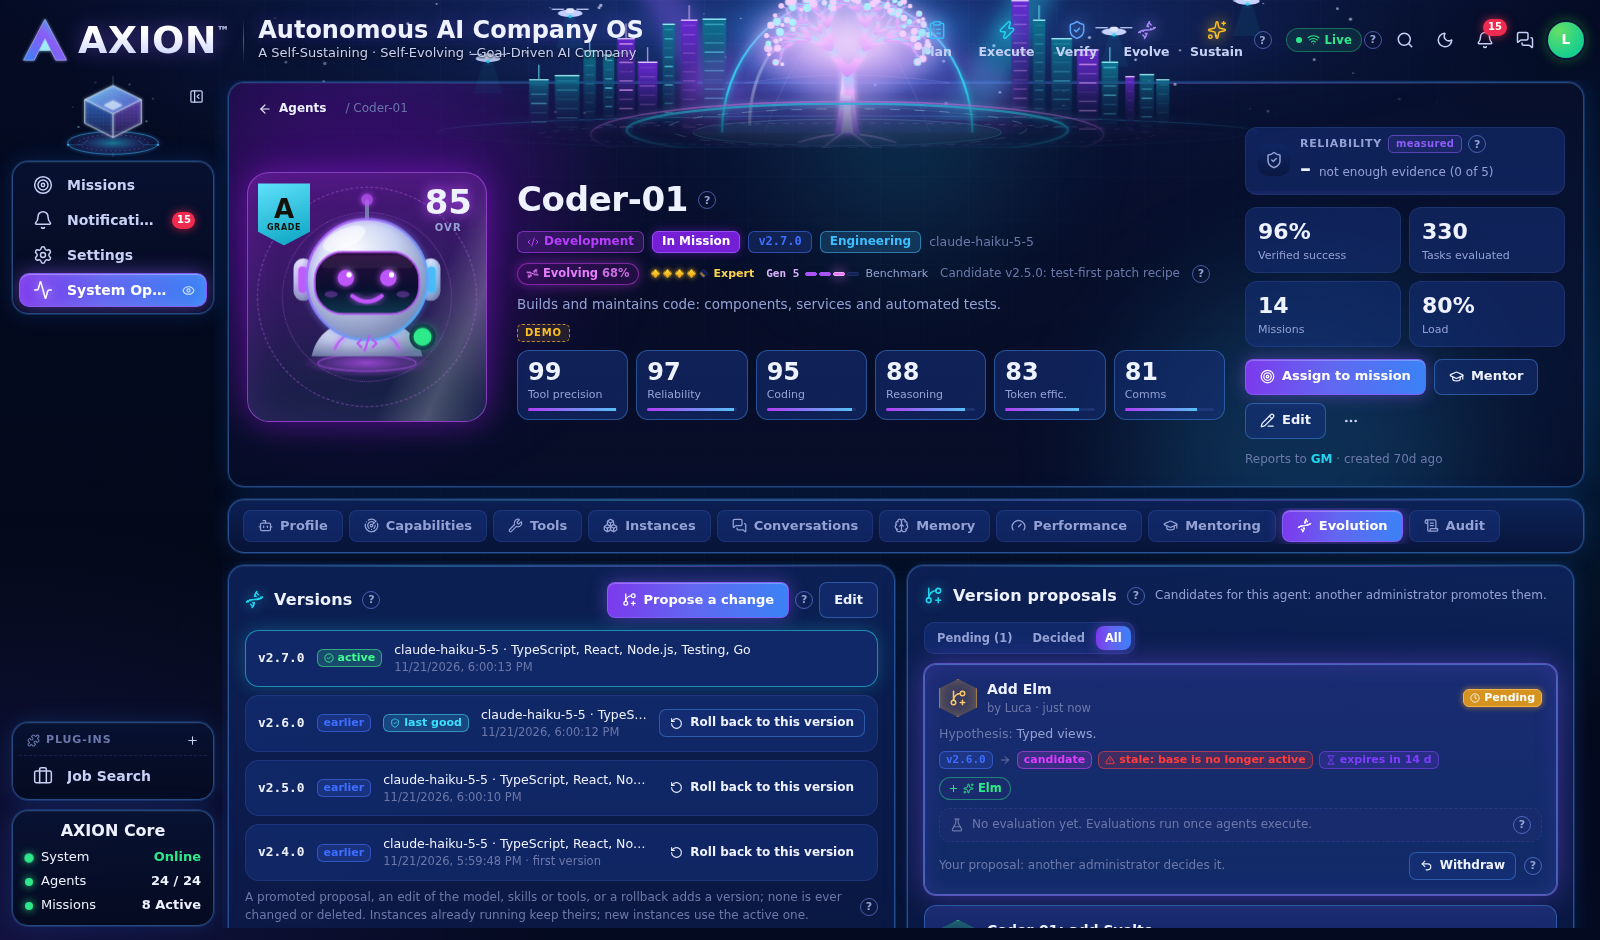
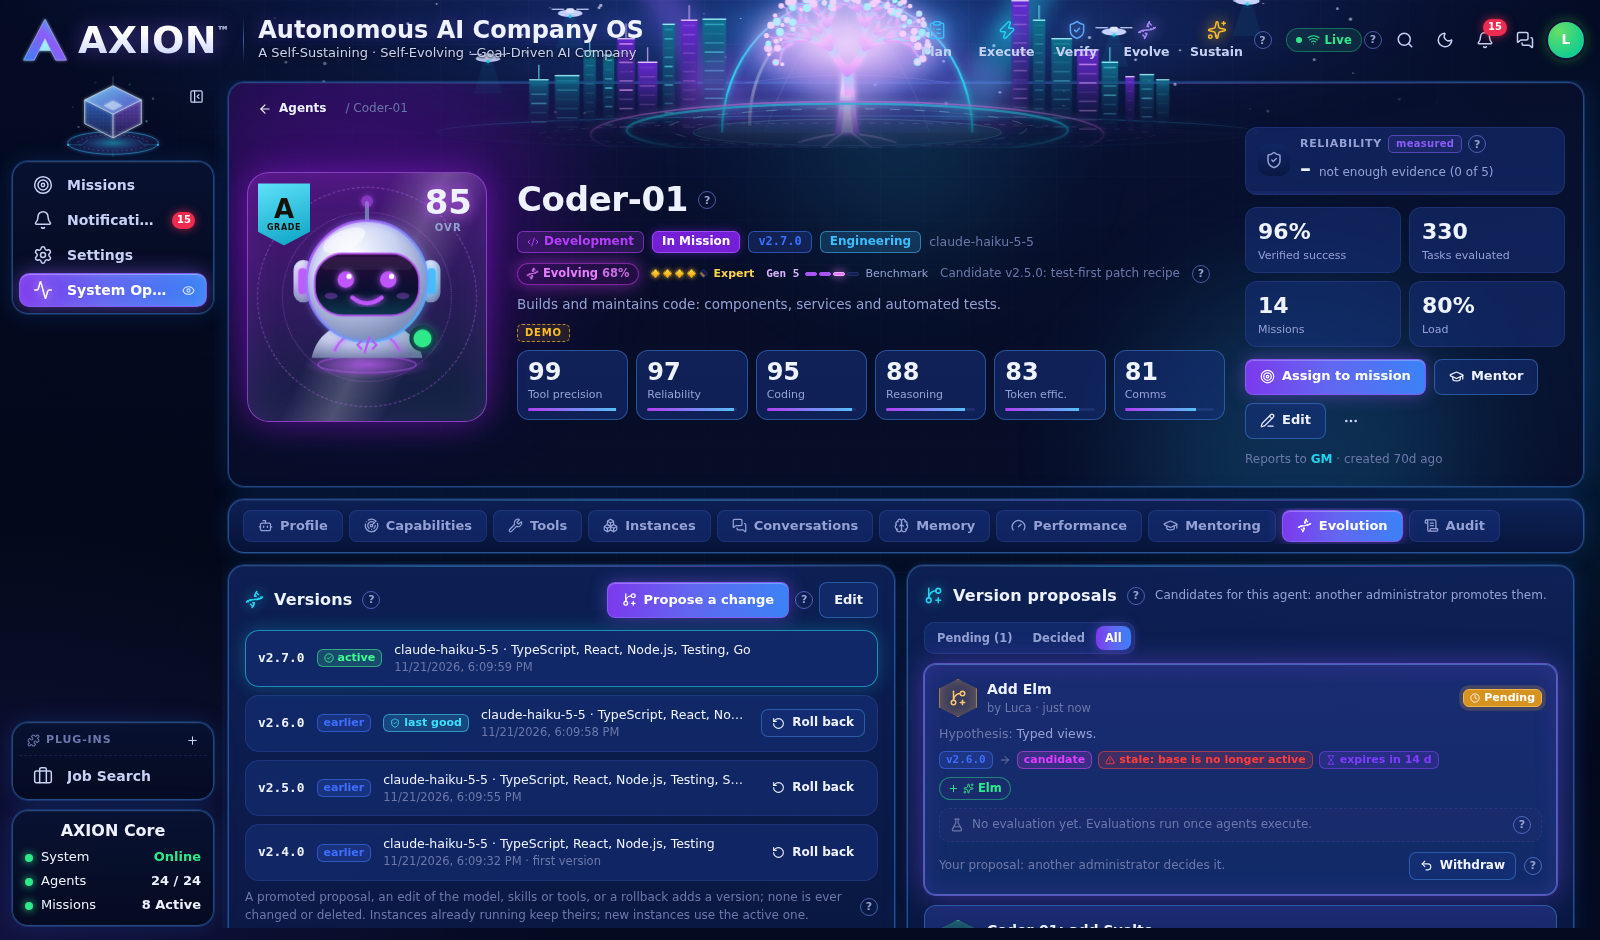
fix(c05): compact Roll back button (accessible name kept) after 1366 screenshots; api-c05 viewport via VW/VH, overflow checks and dialog shots; README rollback line down 14; report update

diff --git a/web/src/pages/AgentProfile.tsx b/web/src/pages/AgentProfile.tsx
@@ -499,9 +499,9 @@ function VersionsPanel({ a }: { a: Agent }) {
                 {good && <Chip hue={190} size="sm" icon={ShieldCheck} title="The version before the active one: one click to roll back to it">last good</Chip>}
                 <div style={{ minWidth: 0, flex: 1 }}>
                   <div className="ellipsis" style={{ fontSize: 12.5 }} title={`${x.model} · skills: ${x.skills.join(', ') || 'none'} · tools: ${x.tools.join(', ') || 'none'}`}>{x.model} · {x.skills.length ? x.skills.join(', ') : 'no skills'}</div>
-                  <div className="dim" style={{ fontSize: 11.5 }}>{new Date(x.createdAt).toLocaleString()}{i === all.length - 1 ? ' · first version' : ''}</div>
+                  <div className="dim ellipsis" style={{ fontSize: 11.5 }}>{new Date(x.createdAt).toLocaleString()}{i === all.length - 1 ? ' · first version' : ''}</div>
                 </div>
-                {canEdit && !active && <button className={cx('btn sm', !good && 'ghost')} style={{ flex: 'none' }} aria-label={`Roll back to this version (${x.label})`} onClick={() => openDialog('agent-rollback', { agentId: a.id, versionId: x.id })}><RotateCcw size={13} />Roll back to this version</button>}
+                {canEdit && !active && <button className={cx('btn sm', !good && 'ghost')} style={{ flex: 'none' }} aria-label={`Roll back to this version (${x.label})`} title={`Roll back to this version (${x.label})`} onClick={() => openDialog('agent-rollback', { agentId: a.id, versionId: x.id })}><RotateCcw size={13} />Roll back</button>}
               </motion.div>
             );
           })}

diff --git a/web/docs/improve/cycles/c05-report.md b/web/docs/improve/cycles/c05-report.md
@@ -51,7 +51,7 @@ sits untracked in the main worktree and was not copied here.
     lists refresh.
   - Promote and rollback also emit `agent.versionCreated` and `agent.updated`.
   - All four new types are in the `EventType` union. Five error codes were added to `ERROR_CODES`.
-- **Docs**: `server/README.md` gains the API, the test count (345) and the rollback line (`migrate -- down 13`).
+- **Docs**: `server/README.md` gains the API, the test count (345) and the rollback line (`migrate -- down 14`). That command is correct both before and after lane 0014 merges.
 
 **Web (api mode; demo mode unchanged)**
 - **Agents › Development** (`ServerDevelopment` in `features/agents/VersionProposals.tsx`):
@@ -65,7 +65,8 @@ sits untracked in the main worktree and was not copied here.
 - **Agent Profile › Evolution** (api mode):
   - The Versions panel marks **active** and **last good**. Last good is the active version's parent, which is the version before
     it, as the brief defines it.
-  - Admins get "Propose a change" (DL-75) and "Roll back to this version" (DL-76, reason required) on every non-active version.
+  - Admins get "Propose a change" (DL-75), and a "Roll back" button (DL-76, reason required) on every non-active version. The
+    button's accessible name and tooltip are "Roll back to this version (vX)". The visible text was shortened after the 1366 check.
   - The old "Candidate Experiment" empty state is replaced by this agent's proposal list.
   - The `active` and `earlier` chips are kept, because `api-stage6.mjs` checks for them.
 - **DL-75 Propose dialog**:
@@ -136,7 +137,7 @@ sits untracked in the main worktree and was not copied here.
 
    ```
    $ cd web && E2E_API_PORT=5392 E2E_WEB_PORT=5393 DOC_SHOT_C05=docs/screenshots/improve-c05-versions-dark.png ./scripts/api-e2e.sh api-c05.mjs api-stage6.mjs api-improve.mjs
-   == api-c05.mjs     29/29 passed, no page errors
+   == api-c05.mjs     29/29 passed, no page errors   (later 31/31 with the overflow checks, at 1600 and 1366)
    == api-stage6.mjs  94/94 passed, no page errors
    == api-improve.mjs 32/33 — FAIL "E2E_DATABASE_URL must point at axion_e2e" (see Concerns: the c01 guard rejects the lane's axion_e2e3)
    ```
@@ -162,7 +163,7 @@ sits untracked in the main worktree and was not copied here.
 | # | Item | Result | Evidence |
 |---|---|---|---|
 | 1 | Server tests in the brief pass; the whole suite stays green | **PASS** | 24 new tests in `test/version-proposals.test.ts`, covering every listed case: promote by another admin (new version, candidate config, parent = base, active); author 403; member 403; stale base 409; tampered sha 409; expired 409; duplicate 409; withdraw by the author only; rollback is a new version with old rows unchanged and the append-only trigger still blocking; rollback to the active version 422; another agent's version 422; running instance keeps its version through promote and rollback; two race tests; other tenant 404; 0015 down/up on a populated schema. Full suite 345/345. |
-| 2 | Browser check in api mode | **PASS** | `api-c05.mjs` 29/29, three browsers: A proposes (+ Svelte) and sees the diff; B promotes from Development; C sees v2.4.0 → v2.5.0 live while `M-126:coder-01` still shows v2.4.0 (server agrees); B rolls back → v2.6.0 has v2.4.0's configuration, parent v2.5.0, and v2.4.0's row is unchanged; C sees v2.6.0 live, the instance still on v2.4.0. Condition waits only. |
+| 2 | Browser check in api mode | **PASS** | `api-c05.mjs` 31/31 at 1600×940 and 31/31 at 1366×768 (`VW`/`VH`), including no horizontal overflow on Evolution or Development, three browsers: A proposes (+ Svelte) and sees the diff; B promotes from Development; C sees v2.4.0 → v2.5.0 live while `M-126:coder-01` still shows v2.4.0. **This instance is a simulated one on a DEMO mission**, because real missions' instances are idle and the e2e database has only DEMO running missions; the server tests also pin through `seedDemo` instances, while Stage 6's `instances.test.ts` covers real staffed instances. The server agrees on the pin. B rolls back → v2.6.0 has v2.4.0's configuration, parent v2.5.0, and v2.4.0's row is unchanged; C sees v2.6.0 live, the instance still on v2.4.0. Condition waits only. |
 | 3 | Author can't promote (403); a proposal whose base changed gets 409 | **PASS** | Server tests, and in the browser run: `SELF_APPROVAL` 403; `AGENT_CHANGED` 409 at creation from an old base; a PATCH after proposing leaves the card stale, and Promote shows the 409 message inline while the proposal stays pending. |
 | 4 | `verify-all.sh` green; demo mode unchanged | **PASS** | 46 PASS, 0 FAIL (lane Vite config described above). Demo still renders the old `Development()`, which was not touched; the dialog smoke opens the two new dialogs in demo mode without errors. |
 
@@ -196,6 +197,18 @@ active v2.7.0, last good v2.6.0 and the "Roll back to this version" buttons, nex
 with its diff and "No evaluation yet").
 
 ## Concerns
+- **api-stage6.mjs under load.** It passed 94/94 at commit d9c6f14. Later re-runs, with 15 lanes on the machine and load
+  average 14–15, stopped at 34/35: `page.reload` timed out at line 235, the 130-message conversation thread, before any agent
+  step. The same failure occurred with my last AgentProfile change stashed (an A/B run), so it does not come from this cycle.
+  Re-run it on a quiet machine.
+- **Stash incident.** `git stash` is shared across worktrees. During that A/B run another lane (c07, w5) pushed a stash
+  between my push and my pop, so my `git stash pop` applied their stash to w3.
+  - I reverted their files in w3 and popped my own entry.
+  - I put their stash back with `git stash store`, using the identical commit `e10a7c8` and its original message.
+  - Nothing reached any other worktree; I checked every worktree's AgentProfile.tsx (read only).
+  - Lesson for the process: lanes should not use `git stash`.
+- **Merge note: migration numbers.** Any test in lane 0014 that asserts `migrate up` returns 14 will see 15 after the merge.
+- **Pre-existing at 1366:** the Agent Profile tab bar scrolls sideways, so "Evolution" is half hidden. This is not changed here.
 - **The Stage 6 Edit dialog still changes model and skills directly** through PATCH, bypassing the proposal and second-person flow.
   The brief kept PATCH as one of three writers, so I left it. Whether direct edits should require a proposal is a question for the
   owner.

diff --git a/server/README.md b/server/README.md
@@ -127,6 +127,6 @@ Not taken: axor's single-connection SQLite→Postgres shim, ad hoc migrations an
 ## Rollback
 
 1. Web: `?data=demo` (or `VITE_DATA_MODE=demo`) brings back the browser-only prototype.
-2. Data: `npm run migrate -- down 13` removes the agent version proposals (0015; versions they promoted stay, as ordinary versions); `npm run migrate -- down 12` removes the org proposals (0013); `down 5` removes Stage 6 (migrations 0006–0013) and keeps Stage 5 data; `down 0` empties the
+2. Data: `npm run migrate -- down 14` removes the agent version proposals (0015; versions they promoted stay, as ordinary versions); `npm run migrate -- down 12` removes the org proposals (0013); `down 5` removes Stage 6 (migrations 0006–0013) and keeps Stage 5 data; `down 0` empties the
    schema; or restore a dump (`backups/axion-20261121T110311Z.dump` was taken right before the Stage 6 migration).
 3. Remove everything: `dropdb` `axion`, `axion_test`, `axion_e2e`, `axion_restore_check`; `drop role axion`.
